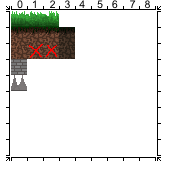
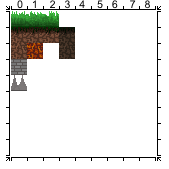
added new ground texture

Changed region(s): [[0.1479, 0.2367, 0.355, 0.355]]

diff --git a/core/src/ch/coldpixel/alpha/main/Main.java b/core/src/ch/coldpixel/alpha/main/Main.java
@@ -169,8 +169,14 @@ public class Main implements Screen {
                             actualLevel.drawRegion(false, arrSurfaceToGround[arrRandomSurface0.get(i)], i * 16, 16, 1, 1, 16, 16, false, 1);
                         }
                         //Ground
-                        actualLevel.drawRegion(false, tl.getGround0(), 0, 0, 35, 1, 16, 16, false, 1);
-                        actualLevel.drawRegion(false, tl.getGround0(), 0, -16, 35, 1, 16, 16, false, 1);
+                        TextureRegion ground;
+                        if(actualLevel == level1){
+                           ground = tl.getGround0();
+                        }else{
+                            ground = tl.getGround1();
+                        }
+                        actualLevel.drawRegion(false, ground, 0, 0, 35, 1, 16, 16, false, 1);
+                        actualLevel.drawRegion(false, ground, 0, -16, 35, 1, 16, 16, false, 1);
                         
                         
                         actualLevel.drawRegion(false, EnemyList.get(0).getEnemyTexture(), (int) EnemyList.get(0).getEnemyX(), (int) EnemyList.get(0).getEnemyY(), 1, 1, 16, 16, false, 1);
@@ -187,9 +193,9 @@ public class Main implements Screen {
                         actualLevel.drawRegion(false, tl.getSurfaceToGround2(), 824, 16, 2, 1, 16, 16, false, 1);
                         actualLevel.drawRegion(false, tl.getSurfaceToGround0(), 856, 16, 2, 1, 16, 16, false, 1);
                 //        
-                        actualLevel.drawRegion(false, tl.getGround0(), 760, -16, 100, 2, 16, 16, true, 1);
+                        actualLevel.drawRegion(false, ground, 760, -16, 100, 2, 16, 16, true, 1);
 
-                        actualLevel.drawRegion(false, tl.getGround0(), 888, 16, 52, 1, 16, 16, false, 1);
+                        actualLevel.drawRegion(false, ground, 888, 16, 52, 1, 16, 16, false, 1);
 
                         //Stairs
                         actualLevel.drawRegion(false, tl.getStairs0(), 888, 32, 20, 2, 16, 16, true, 1);
